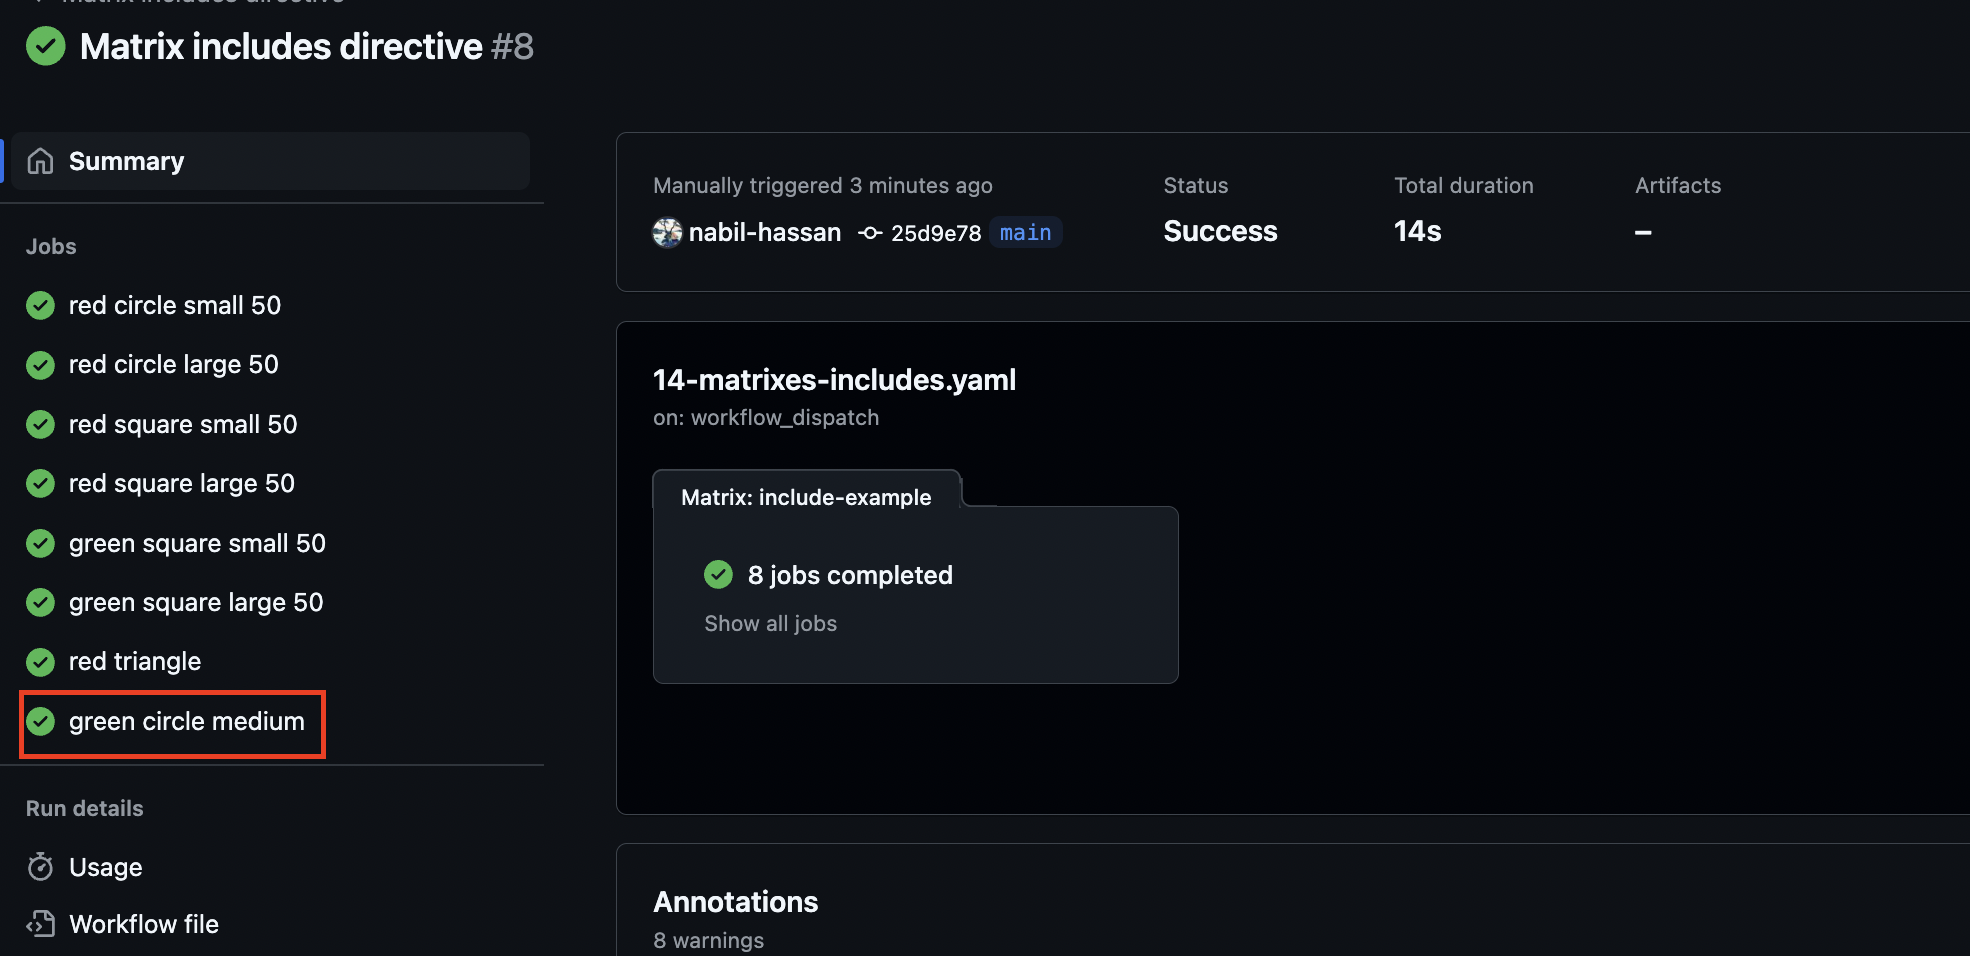
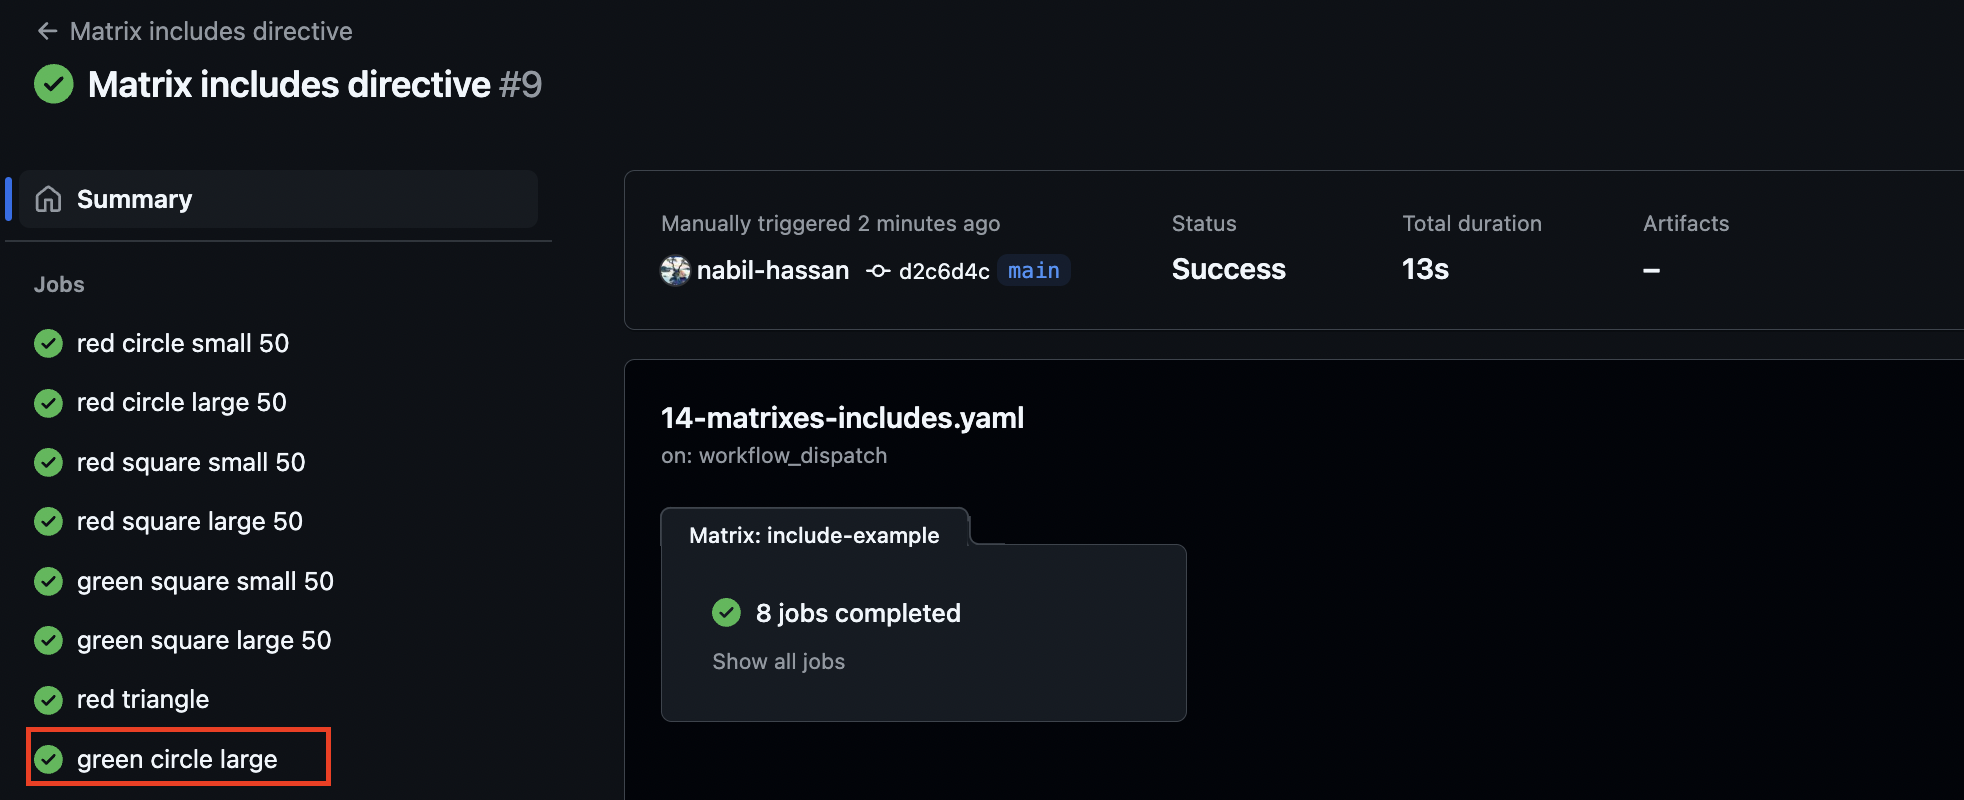
...

diff --git a/14-matrixes/matrixes.md b/14-matrixes/matrixes.md
@@ -60,7 +60,7 @@ The `includes` directive can be used to add new permutations to the matrix eithe
 
 The placement of properties in the `includes` directive is very important.
 
-If you place an additional property at the beginning of the includes array, it will only apply to permutations that appear before it:
+In the example below, we use includes to add an `opacity` property to all 8 existing permutations
 
 ```yaml
 include-example:
@@ -80,7 +80,7 @@ As you can see below, opacity was not applied to the red triangle since it appea
 
 <img src="../img/matrix-includes-1.png" width="700">
 
-Now, if we tweak this slightly, we can illustrate how includes can target one or more matrix segments:
+Next lets illustrate how to partially match matrix segments and add the opacity property.
 
 ```yaml
 include-example:
@@ -101,9 +101,11 @@ strategy:
         shape: triangle
 ```
 
-- If the shape is a circle, the opacity will be 100
 - If the color is red, the opacity will be 75
+- If the shape is a circle, the opacity will be 100
 - If not matched on shape or color e.g. green square, the opacity will be 50
+
+As you can see, they treated in __ascending order of precedence__, so a red circle will have opacity 100.
 
 <img src="../img/matrix-includes-2.png" width="700">
 
@@ -128,15 +130,9 @@ strategy:
       - opacity: 50
 ```
 
-Everything except red triangle uses opacity 50:
+Everything except red triangle uses opacity 50, because opacity 50 takes precedence __except__ if we have a permuation whose key value(s) do not exist in the matrix. :
 
 <img src="../img/matrix-includes-3.png" width="700">
-
-Let's explain all this behaviour in the next section.
-
-## Rationalising how include works
-
-TODO: complete
 
 # Excludes directive
 
@@ -169,11 +165,9 @@ strategy:
         shape: circle
 ```
 
-NB excludes will not apply to an includes permutation that contains a key value that does not exist.
+NB if an `include` permutation exists which is matched by an `exclude`, the include will always override .
 
-For example below, there is no `size` value of `medium` so the exclude directive is not applied.
-
-As you can see below, this means that we get a run for the medium green circle.
+For example below, we explicitly `include` a large green circle.
 
 ```yaml
 strategy:
@@ -184,10 +178,12 @@ strategy:
     include:
       - color: green
         shape: circle
-        size: medium
+        size: large
     exclude:
       - color: green
         shape: circle
 ```
+
+As you can see below, this means that we get a run for the large green circle, but not for other green circles.
 
 <img src="../img/matrix-excludes-caveat.png" width="700">
